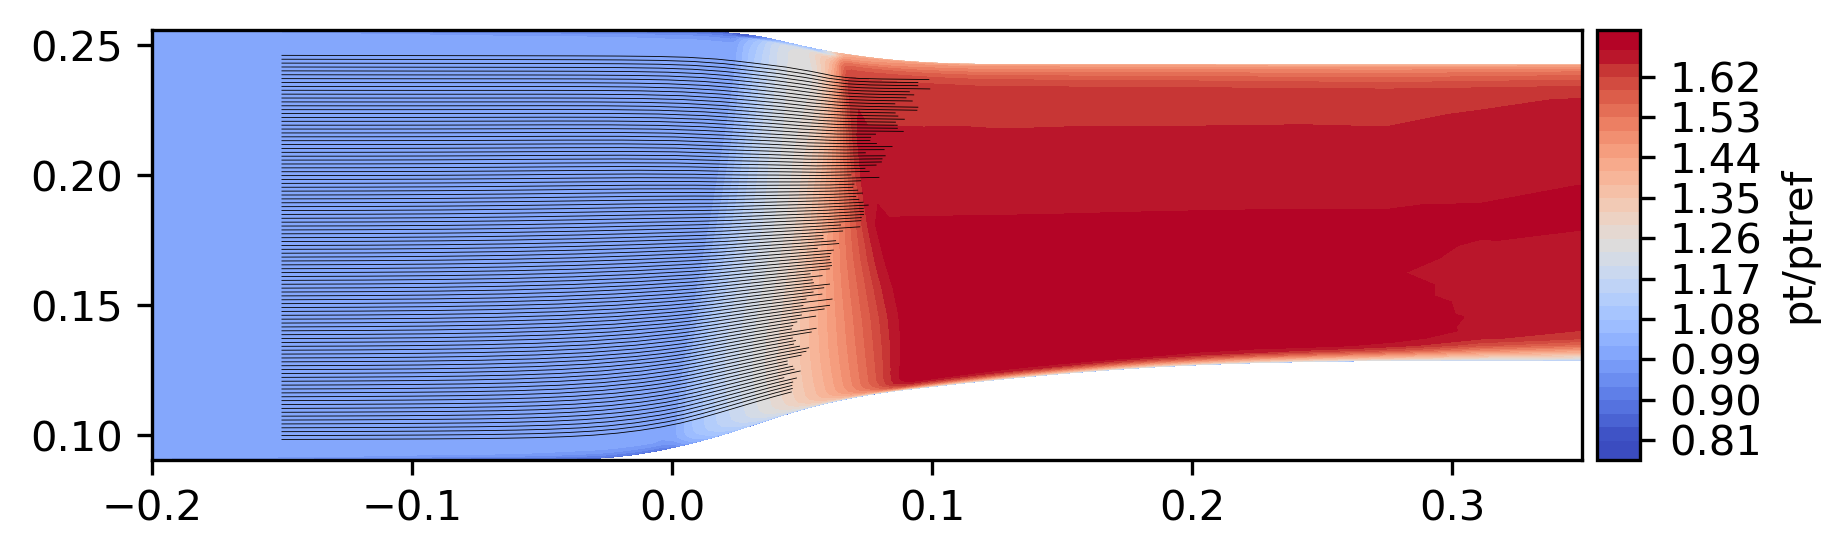
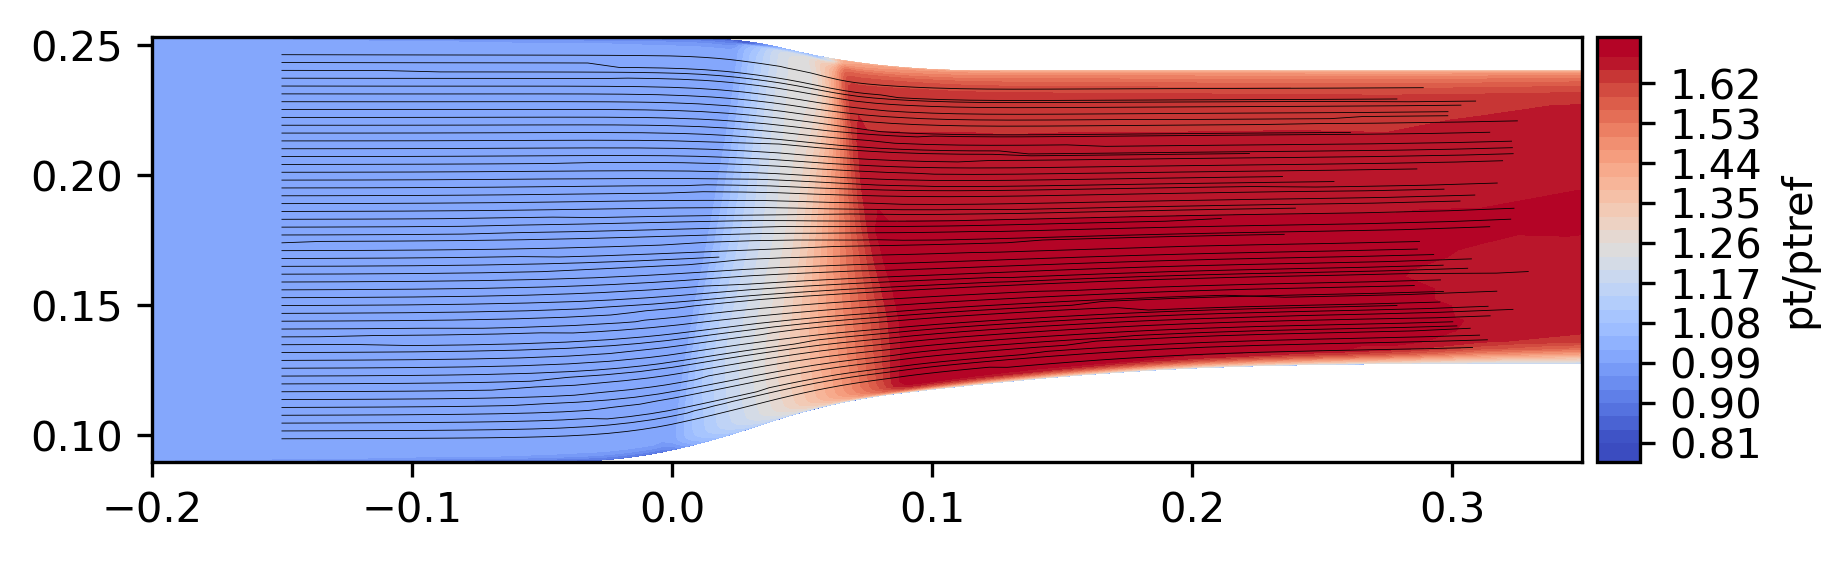
dev

diff --git a/examples/turbomachinery/pp.py b/examples/turbomachinery/pp.py
@@ -28,6 +28,7 @@ import vtk4cfd as mv
 from vtk4cfd import Grid
 
 solfile = './*.cgns'
+# Options
 options ={
    'solvarnames': {'rho':'Density', 'p':'Pressure', 
                   'V':'Velocity', 'M':'Mach', 
@@ -35,24 +36,37 @@ options ={
    'domname_key':['blk*'],
    'ref_vals':{'p':101325.0, 'pt':101325.0},
 }
-
+# create sol object
 sol = Grid(solfile, 'CGNS', options=options, plotoptions={})
+# compute variables
 sol.computeVar(['vx','Vmag','pt/ptref', 'p/pref'])
+# slice the volume solution
 sol.makeSlice([0.0,0,0.0], [1.0,0.0,0.0],slicename='s1',view='-x')
+# perform mass integration
 varmave, mdot = sol.massInt('s1', ['p','vx'])
 print(varmave, mdot)
 
+# plot contours
 nmercontour, merc, mercf = 1, [], []
 for ii in range(nmercontour):
    fig, thisax = sol.makePlot()
    merc.append(thisax)
    mercf.append(fig)
-#
-##sol.computeVar(['V/Vinf','Cpt','Cp'])
-sol.makeSlice([0,0,0], [0,-np.sin(0.0873),np.cos(0.0873)],slicename='mer',view='-z')
-sol.makeSlice([0,0,0], [0,-np.sin(0.0873),np.cos(0.0873)],slicename='mer_quad',view='-z', triangulize=False)
-sline_seeds = np.linspace([-0.15, 0.09848, 0.01736], [-0.15, 0.2462, 0.0434], 20)
-sol.plotStreamlineMultiBlk('Velocity', sline_seeds, surface=None, x_range=[-0.15, 0.2], idir='forward', slname='mer')
+
+#y
+#^ ang
+#|  v  /
+#|    /
+#|   /\
+#|  /    \ 
+#| /        \
+#|/           n
+# -------------> z
+ang = 10.0/180.0*np.pi
+sol.makeSlice([0,0,0], [0,-np.sin(ang),np.cos(ang)],slicename='mer',view='-z')
+sol.makeSlice([0,0,0], [0,-np.sin(ang),np.cos(ang)],slicename='mer_quad',view='-z', triangulize=False)
+sline_seeds = np.linspace([-0.15, 0.1*np.cos(ang), 0.1*np.sin(ang)], [-0.15, 0.25*np.cos(ang), 0.25*np.sin(ang)], 50)
+sol.plotStreamlineMultiBlk('Velocity', sline_seeds, surface='mer_quad', x_range=[-0.15, 0.2], idir='forward', slname='mer', maxlength=0.2)
 #
 sol.plotContour('pt/ptref', surface='mer', ax=merc[0])
 ##,sol.plotContour('Cp', surface='midspan', ax=merc[2], clevels=[-6.0, 6.0])
@@ -64,3 +78,4 @@ dpi = 300.0
 
 mercf[0].savefig('contours/'+'pt'+'.png', dpi=dpi, bbox_inches='tight')
 
+# plot lines

diff --git a/vtk4cfd/vtk4cfd.py b/vtk4cfd/vtk4cfd.py
@@ -276,7 +276,7 @@ class Grid():
 
    def plotStreamlineMultiBlk(self, varname, points, x_range, 
                            surface=None, ax=None, 
-                           idir='both', slname=None, view=None):
+                           idir='both', slname=None, view=None, maxlength=2.0):
       """
       Plot streamline for multi-region or overset grids  
       (When discontinuities might exist in between blks)
@@ -302,7 +302,7 @@ class Grid():
             if idir == 'forward':
                while endx < x_range[1]:
                   pt_next = sline[-1,:] + (sline[-1,:] - sline[-2,:])*2.0
-                  sline_next = mv.Streamline(source, varname, pt_next, idir='forward', planar=planar, maxlength=2.0)
+                  sline_next = mv.Streamline(source, varname, pt_next, idir='forward', planar=planar, maxlength=maxlength)
                   sline = np.concatenate((sline, sline_next), axis=0)
                   endx = sline[-1,0]
                   counter = counter + 1
@@ -315,7 +315,7 @@ class Grid():
             elif idir == 'backward':
                while endx > x_range[0]:
                   pt_next = sline[-1,:] - (sline[-1,:] - sline[-2,:])*2.0
-                  sline_next = mv.Streamline(self.data, varname, pt_next, idir='backward', planar=planar, maxlength=2.0)
+                  sline_next = mv.Streamline(self.data, varname, pt_next, idir='backward', planar=planar, maxlength=maxlength)
                   sline = np.concatenate((sline, sline_next), axis=0)
                   endx = sline[-1,0]
                   counter = counter + 1
@@ -334,7 +334,7 @@ class Grid():
             allslines.append(sline)
 
          else:
-            print('No streamline plotted at ',thisPt)
+            print('No streamline found at ',thisPt)
 
       if slname:
          self.slines[slname] = allslines
